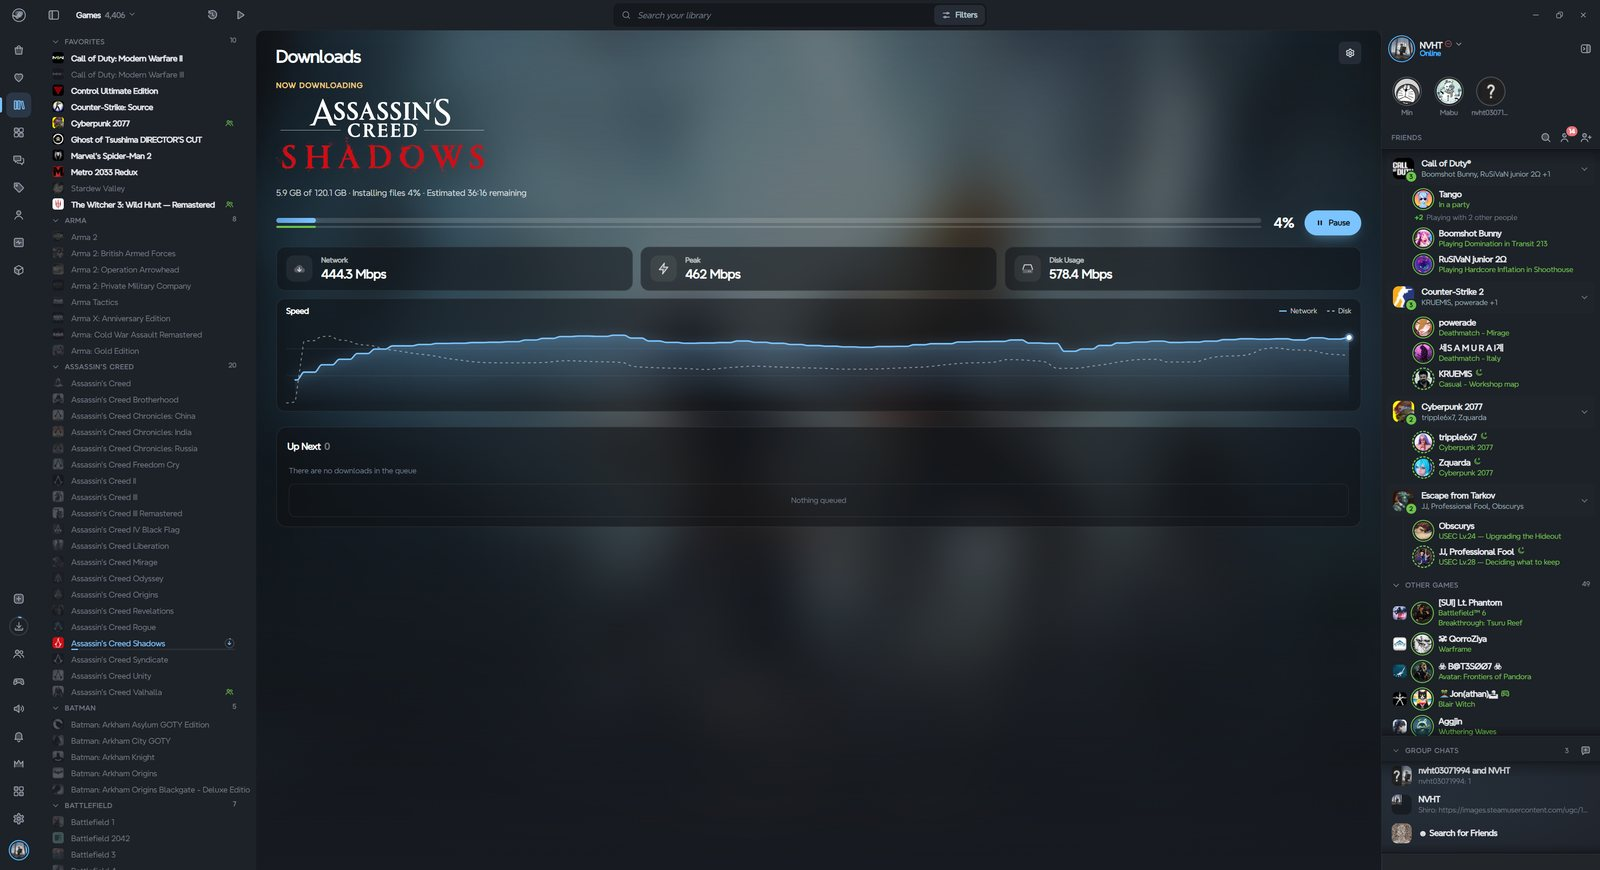
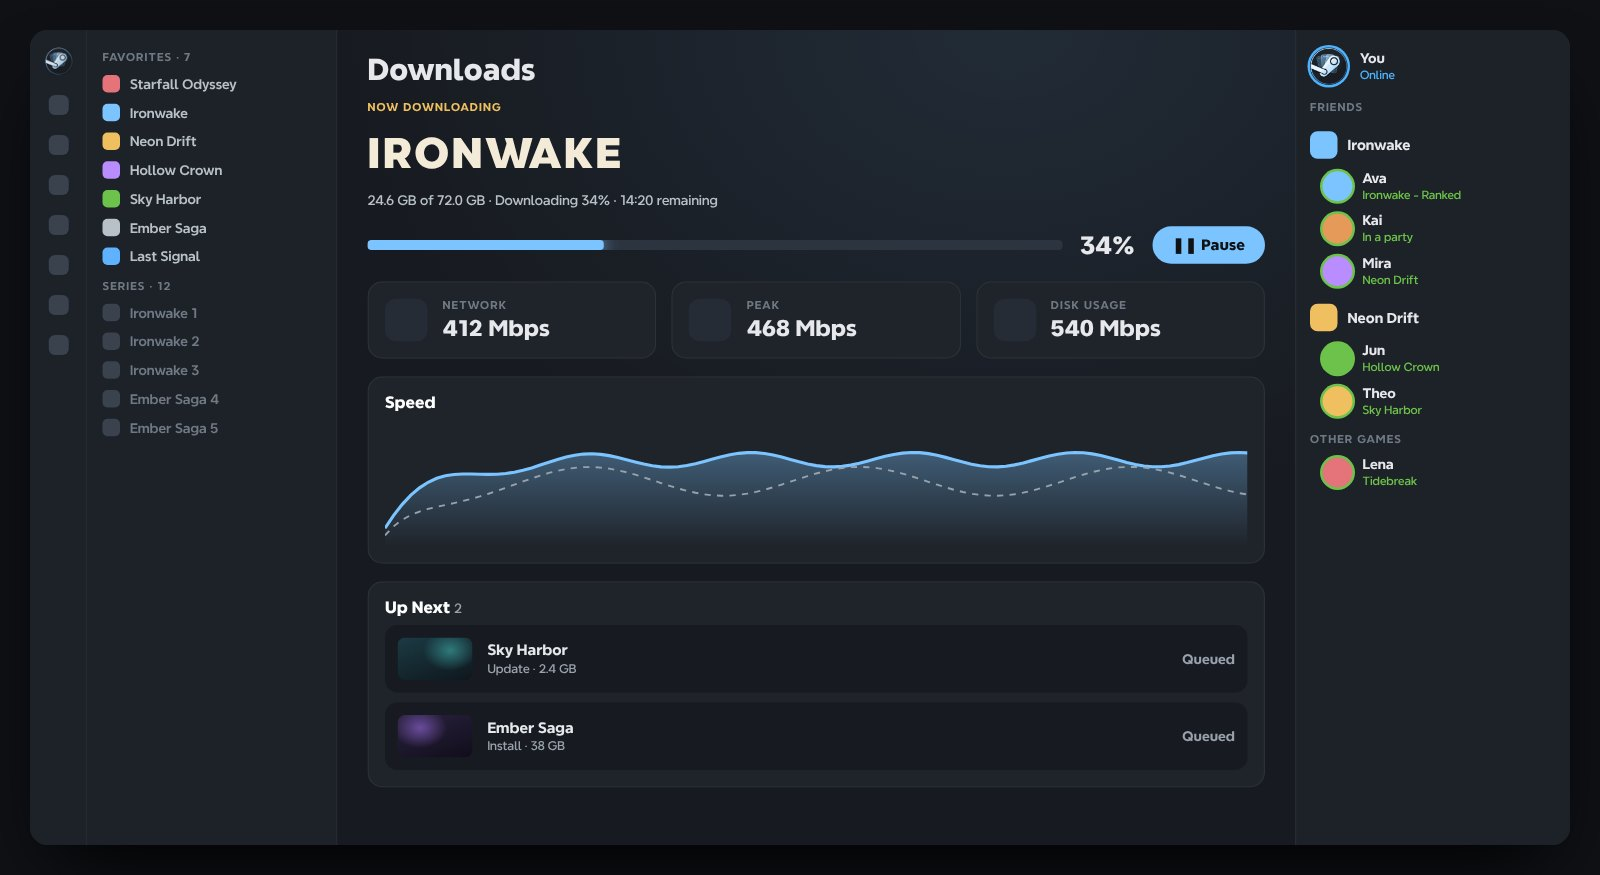
Use the illustrated showcase as the README (1.92.11)
Drawn scenes replace the screenshots in branding/showcase/; README.illustrated.md
is folded into README.md.

Claude-Session: https://claude.ai/code/session_011ZScP493TvEWX6sjNw81zS

diff --git a/features/dialogs/about-steam.js b/features/dialogs/about-steam.js
@@ -15,7 +15,7 @@
   const BODY = '._32eeZuly3nnz3cMXdSgyj9';
   const LABEL = '._2yhBdvNsgdBGL_UjfmTDGH';
   const BUILT = 'data-se-about';
-  const FALLBACK_VERSION = '1.92.10';
+  const FALLBACK_VERSION = '1.92.11';
   const AUTHOR = 'NVHT';
   const TAGLINE = 'The Steam you always wanted.';
   const COPIED_MS = 1400;

diff --git a/README.md b/README.md
@@ -11,7 +11,7 @@
 
 <p align="center">
   <img alt="Millennium: theme" src="https://img.shields.io/badge/Millennium-theme-7cc4ff?style=flat-square&labelColor=171a20">
-  <img alt="version: 1.92.10" src="https://img.shields.io/badge/version-1.92.10-f0c060?style=flat-square&labelColor=171a20">
+  <img alt="version: 1.92.11" src="https://img.shields.io/badge/version-1.92.11-f0c060?style=flat-square&labelColor=171a20">
   <img alt="platform: Steam desktop" src="https://img.shields.io/badge/platform-Steam%20desktop-33404f?style=flat-square&labelColor=171a20">
 </p>
 
@@ -25,6 +25,8 @@
 ---
 
 Steam Enhanced rebuilds the Steam client from the Library out: a navigation rail, a cinematic Home stage, two-column game pages with HowLongToBeat and achievement rarity, a Friends dock that never leaves the window, and a restyled in-game overlay. Steam's own interface still runs underneath, with its state, data and behaviour untouched, so everything keeps working the way Steam intends. It just looks and feels the way it always should have.
+
+> Scenes are illustrated with placeholder games and friends.
 
 ## Highlights
 
